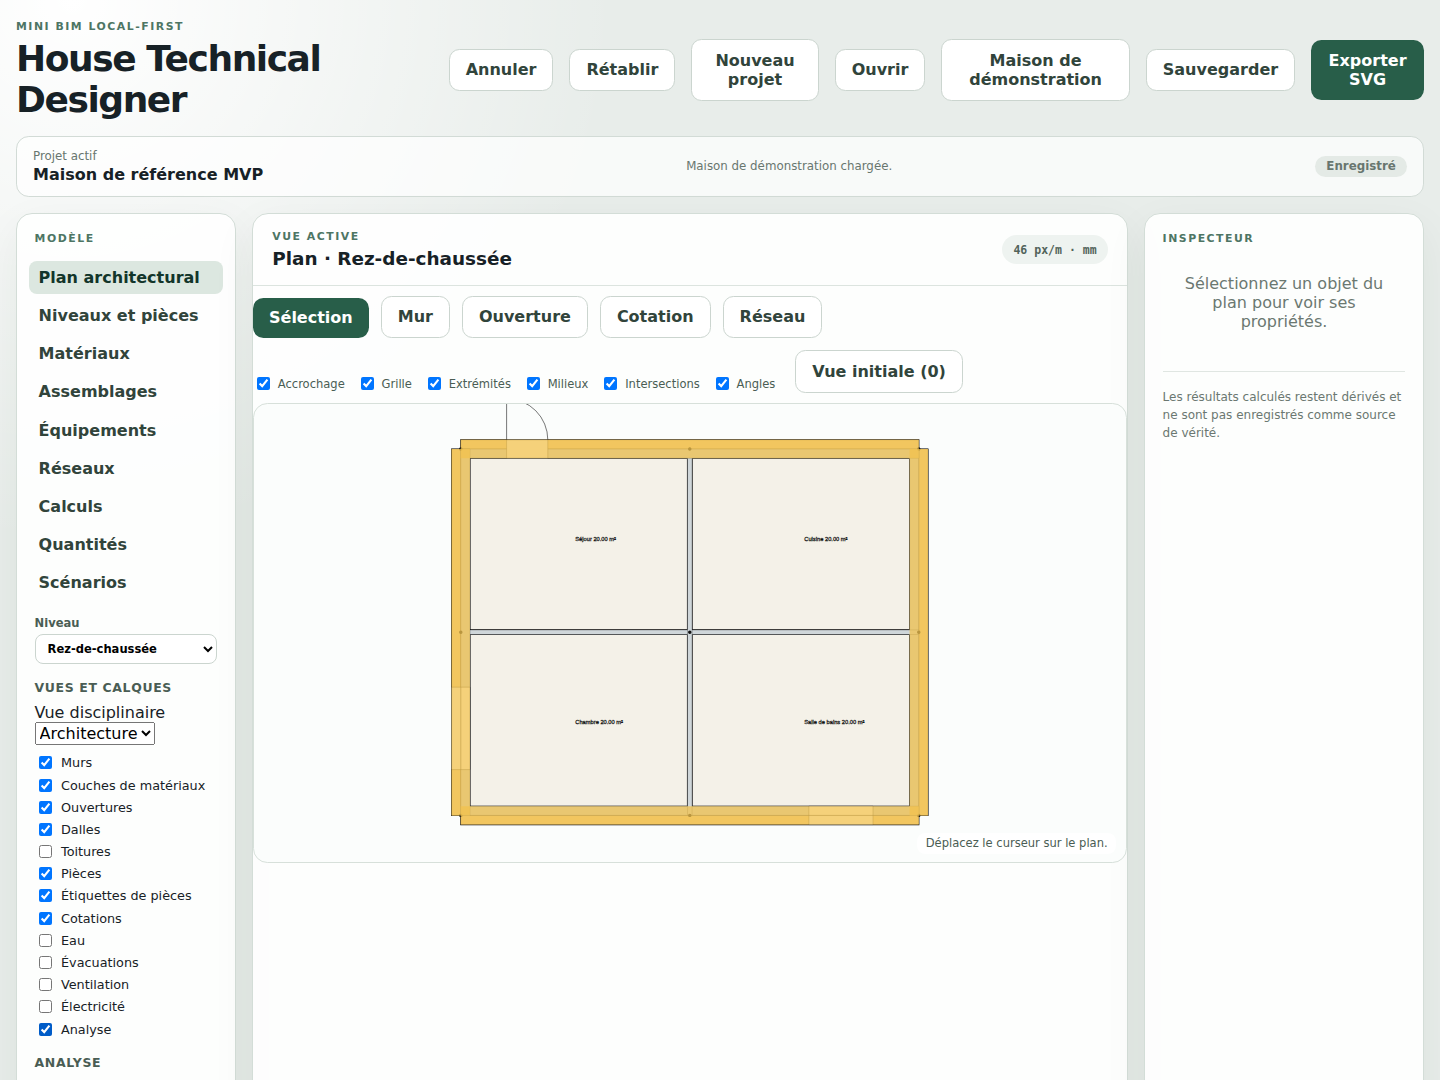
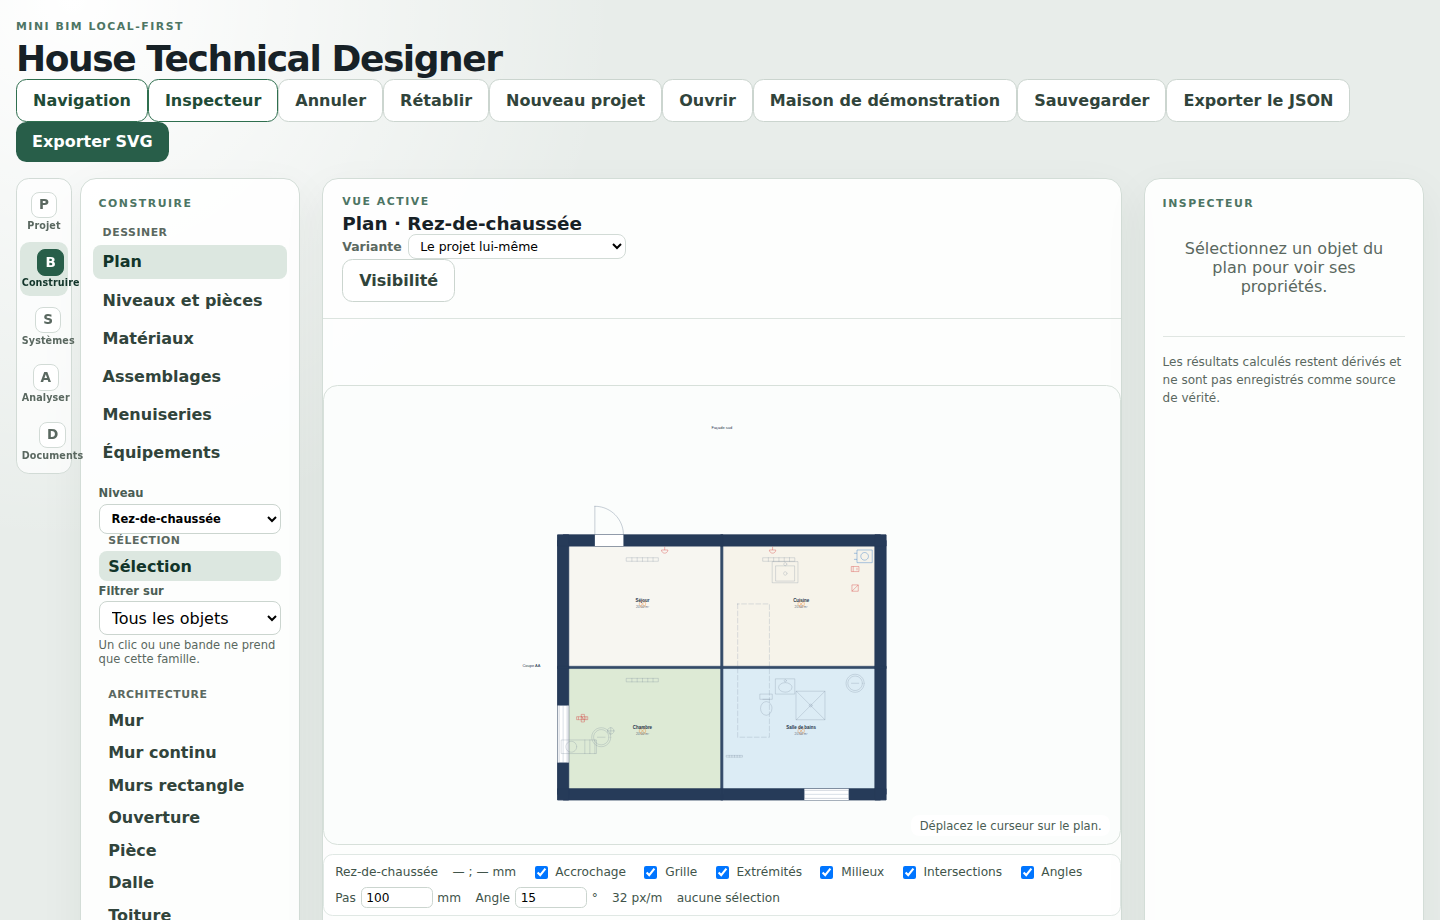
La capture du README montre le plan que le programme dessine aujourd'hui
L'image datait de deux interfaces et d'une charte : elle montrait la colonne
des onze destinations, et surtout des murs remplis de bandes jaunes d'isolant
sur toute leur longueur — exactement ce que ce chantier a corrigé. Une
documentation qui montre un dessin que le programme ne produit plus est pire
qu'aucune : le lecteur juge le projet sur une image périmée.

Reprise depuis l'application construite, avec le calque « Terrain » éteint —
un plan de niveau montre le bâtiment, la parcelle est le sujet d'un plan de
masse — et cadrée par « Zoom étendu ».

Et reprise par une commande, `npm run docs:screenshots`, plutôt qu'à la main un
jour où quelqu'un y pense. Le navigateur est celui de Playwright ; un Chromium
installé ailleurs se désigne par `CHROMIUM_PATH`.

Claude-Session: https://claude.ai/code/session_0117dTiuReiFdf3MXHutwK8o

diff --git a/AGENTS.md b/AGENTS.md
@@ -22,4 +22,5 @@
 - Typecheck: `npm run typecheck`
 - Tests: `npm test`
 - Schema validation: `npm run validate:schemas`
+- README screenshot (after building the web app): `npm run docs:screenshots`
 - Build: `npm run build`
